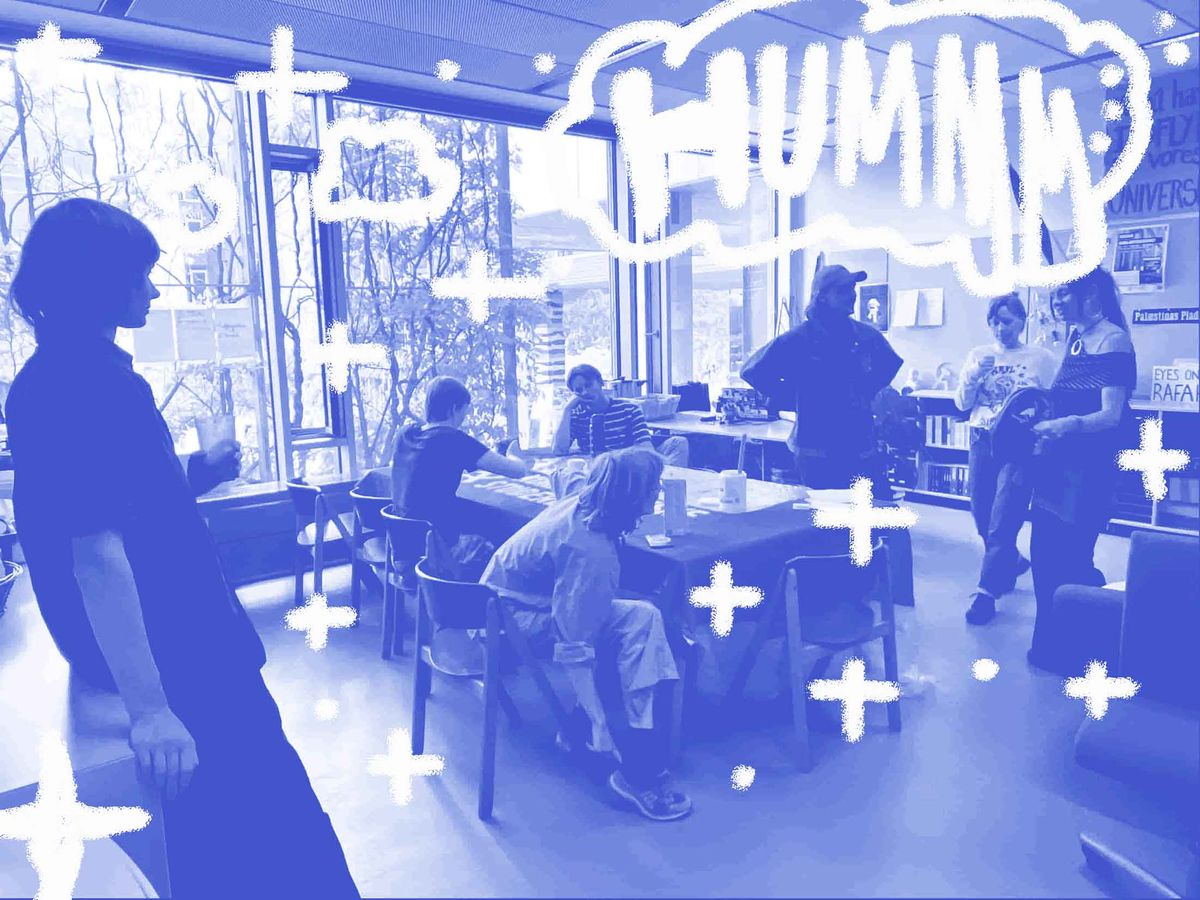
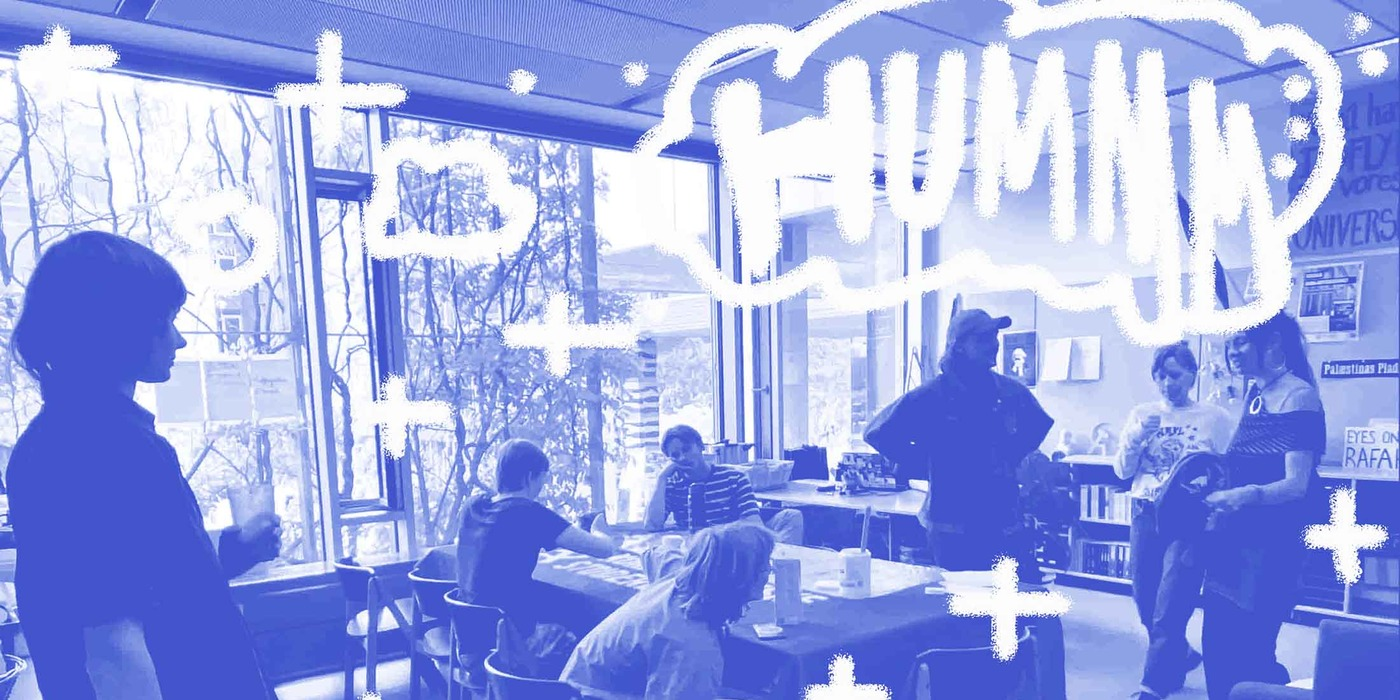
feat: kalender og booking øverst på forsiden, ombytning og beskæring af billeder, opdateret forsidestruktur

diff --git a/index.html b/index.html
@@ -11,7 +11,7 @@
   <header>
     <div class="header-inner">
       <h1>HUM-lokalet</h1>
-      <p class="tagline">Fælles studenter- og foreningslokale i Bygning 11A (lokale 11A-1-05) på KUA</p>
+      <p class="tagline">Bygning 11A-1-05 · Søndre Campus (KUA)</p>
     </div>
     <nav>
       <a href="/" class="active">Forside</a>
@@ -25,48 +25,17 @@
   </header>
 
   <main>
-    <!-- Gul driftsboks til hverdagsbeskeder -->
+    <!-- Driftsstatus for efterårssemesteret 2026 -->
     <div class="notice-box">
       <h3>Driftsstatus for efterårssemesteret 2026:</h3>
-      <p><strong>Faste aftener:</strong> Mandag til torsdag kl. 18.00–20.00 er lokalet optaget af faste foreningsmøder (fordelt på semestermødet). Alt andet tid kan bookes frit ad hoc.</p>
-      <p><strong>Køleskabet:</strong> Det er desværre gået i stykker igen... Vi har meldt det til driften, og der arbejdes på en løsning, men lad være med at stille mælk eller mad derind lige nu!</p>
+      <p><strong>Flere faste tider:</strong> Mandag til torsdag efter kl. 12:00 er åbent for faste foreningsmøder. Book også ad hoc herunder.</p>
+      <p><strong>Nyt køleskab:</strong> Desværre stadig i stykker - stil ikke mad ind. Campus Service må ikke hjælpe, men der er indsamlet til nyt kølefrys d. 2/7!</p>
     </div>
 
-    <section>
-      <h2>Hvad er HUM-lokalet?</h2>
-      <p>Kort sagt: Det er et fælles forenings- og mødelokale for aktive studerende, faggrupper og studenterforeninger på Det Humanistiske Fakultet. Lokalet drives 100% frivilligt af os studerende igennem et åbent brugerråd (HUM-lokaleudvalget).</p>
-      <p>Her kan din forening holde ugentlige møder, I kan lave bannere, holde læsegruppe inden eksamen eller bare brygge en kande kaffe og ordne dagsordener. Vi prøver at holde bureaukratiet nede på et absolut minimum, så længe alle rydder op efter sig selv og overholder de få, faste regler vi har aftalt.</p>
-    </section>
-
-    <!-- Billede fra lokalet -->
-    <figure class="featured-image">
-      <img src="/img/uploads/img02.jpg" alt="Arbejdsdag fra øverst til nederst.">
-      <figcaption>Arbejdsdag fra øverst til nederst.</figcaption>
-    </figure>
-
-    <section class="boxes-grid">
-      <div class="box">
-        <h3>Pladser & Møbler</h3>
-        <p>Der er ca. 20 siddepladser med borde og klapstole der kan flyttes rundt. Derudover to faste skriveborde (som folk bedes holde ryddet, så andre kan sidde der!).</p>
-      </div>
-      <div class="box">
-        <h3>Kaffe & Te</h3>
-        <p>2 kaffemaskiner og store termokander. Fælles kopper i skabet – men husk at vaske op efter dig selv, der er ingen rengøringsdame til kopperne.</p>
-      </div>
-      <div class="box">
-        <h3>Skærm & Tavle</h3>
-        <p>Præsentationsskærm med HDMI-stik til bærbar, samt et stort whiteboard på væggen (husk lige at efterlade et hjørne til faste beskeder og ugeplanen).</p>
-      </div>
-      <div class="box">
-        <h3>Skabsplads & Depot</h3>
-        <p>10 hylde- og skuffemeter. Noget er reserveret fast til HUM-rådet, og resten fordeles mellem aktive foreninger ved hver semesterstart.</p>
-      </div>
-    </section>
-
-    <!-- Konkret Google Kalender direkte på forsiden -->
+    <!-- Bookingkalenderen og funktionaliteten øverst -->
     <section class="calendar-section">
       <h2>Lokalekalender</h2>
-      <p>Her kan du se hvad der er booket i HUM-lokalet lige nu (faste aftentildelinger mandag–torsdag kl. 18–20 samt godkendte ad hoc-aktiviteter):</p>
+      <p>Her kan du se hvad der er booket i HUM-lokalet lige nu. Lokalet er forbeholdt faste foreningsaktiviteter, der kun vanskeligt kan bookes gennem campusservice – se <a href="/booking/">booking-FAQ og retningslinjer</a>.</p>
       
       <div class="calendar-wrapper">
         <iframe src="https://calendar.google.com/calendar/embed?height=600&wkst=2&ctz=Europe%2FCopenhagen&mode=WEEK&hl=da&title=HUM-lokalet&showTz=0&src=aHVtLmxva2FsZXVkdmFsZ0BnbWFpbC5jb20&src=ZGEuZGFuaXNoI2hvbGlkYXlAZ3JvdXAudi5jYWxlbmRhci5nb29nbGUuY29t&color=%23039be5&color=%230b8043" style="border-width:0" width="100%" height="600" frameborder="0" scrolling="no"></iframe>
@@ -75,14 +44,44 @@
       <p style="margin-top: 0.75rem;">
         <a href="https://calendar.google.com/calendar/u/0/appointments/schedules/AcZssZ1jp3ZjY6BK1qRwQJN4Qnzq2nO0DYPLTbCI2lCjQk_NJo_hct2kS0A90FhZgQ5IJQJiPuyJhNTt?gv=true" target="_blank" rel="noopener" class="btn">Book ledig ad hoc-tid i lokalet →</a>
         <a href="/booking/" class="btn" style="background: var(--dark-blue); margin-left: 0.5rem;">Læs regler & retningslinjer →</a>
-        <a href="/faste-moeder.ics" class="btn" style="background: transparent; color: var(--primary-blue); border: 1px solid var(--border-blue); margin-left: 0.5rem;">Hent faste møder (.ics) ↓</a>
       </p>
+    </section>
+
+    <section>
+      <h2>Hvad er HUM-lokalet?</h2>
+      <p>Fælles forenings- og mødelokale for aktive studerende, faggrupper og studenterforeninger på Det Humanistiske Fakultet. Lokalet drives 100% frivilligt og selvstyrende åbent brugerråd (<a href="/om/">HUM-lokaleudvalget</a>) under KUs foreningsbestemmelser. Bliv aktiv og hjælp dig og din naboforening: Duk op til et <a href="/moeder/">mandagsmøde</a>, en arbejdsdag eller når vi åbner <a href="/booking/">HUM-minibaren</a> for alle.</p>
+      <p>Her kan din forening holde møder, lave bannere og lave foreningsarbejde i gode rammer. HUM-lokalet <a href="/booking/">bookes let</a> og helt uden Campus Service. Vi holder bureaukrati og bookingbesvær på et minimum og alle er velkomne, der overholder <a href="/husorden/">husordenen</a>.</p>
+    </section>
+
+    <!-- Det blå billede fra lokalet (croppet 1/3 i bunden) -->
+    <figure class="featured-image">
+      <img src="/img/uploads/img03-hmmm.jpg" alt="Møde, kaffe og fællesskab i HUM-lokalet">
+      <figcaption>HUMMM: Foreningsliv, bannerproduktion og møde i HUM-lokalet (11A-1-05).</figcaption>
+    </figure>
+
+    <section class="boxes-grid">
+      <div class="box">
+        <h3>Pladser & Møbler</h3>
+        <p>Der er ca. 15 siddepladser med borde og klapstole der kan flyttes rundt. Derudover to faste skriveborde (som folk bedes holde ryddet jf. <a href="/husorden/">husordenen</a>, så andre kan sidde der!).</p>
+      </div>
+      <div class="box">
+        <h3>Kaffe & Te</h3>
+        <p>2 kaffemaskiner og store termokander. Der er fælles service på samme skabsrække – men husk opvasken - et vigtigt punkt på dagsordenen (se <a href="/husorden/">husordenen</a>).</p>
+      </div>
+      <div class="box">
+        <h3>Tavle og skriv</h3>
+        <p>Stort whiteboard på væggen - efterlad et hjørne til beskeder og ugeplanen.</p>
+      </div>
+      <div class="box">
+        <h3>Skabsplads & Depot</h3>
+        <p>10 hylde- og skuffemeter. Noget er reserveret fast til HUM-rådet, og resten fordeles mellem aktive foreninger ved hver semesterstart (se <a href="/om/">inventarlisten</a>).</p>
+      </div>
     </section>
 
     <section class="meeting-callout">
       <h3>Vær med til næste mandagsmøde</h3>
-      <p>Vi mødes den <strong>første mandag i hver måned fra kl. 16.30 til 17.30</strong> i lokalet (11A-1-05). Her vender vi alt fra skuffeplads og kaffekasse til nye ønsker og ad hoc-tider.</p>
-      <p>Næste gang er <strong>mandag d. 7. december 2026 kl. 16.30</strong>. Alle studerende på HUM er velkomne til at kigge forbi.</p>
+      <p>Vi mødes den <strong>første mandag i hver måned fra kl. 16.30 til 17.30</strong> i lokalet (11A-1-05). Her vender vi alt fra skuffeplads og kaffekasse til nye ønsker og tider.</p>
+      <p>Næste gang er <strong>mandag d. 7. december 2026 kl. 16.30</strong>. Alle studerende er velkomne.</p>
       <p><a href="/moeder/">Se dagsorden og gamle referater her →</a></p>
     </section>
   </main>

diff --git a/om/index.html b/om/index.html
@@ -28,10 +28,10 @@
     <h2>Hvem styrer lokalet? (Demokrati & Flad struktur)</h2>
     <p>HUM-lokaleudvalget er ikke en lukket klub eller en tung institutionel bestyrelse. Det er et åbent brugerråd for alle foreninger, fagråd og aktive studerende på Det Humanistiske Fakultet der bruger rummet.</p>
 
-    <!-- Det blå billede fra img/raw/img03-hmmm.jpg -->
+    <!-- Billedet fra arbejdsdagen -->
     <figure class="featured-image">
-      <img src="/img/uploads/img03-hmmm.jpg" alt="Møde, kaffe og fællesskab i HUM-lokalet (11A-1-05)">
-      <figcaption>HUMMM: Fællesmøde, bannerproduktion og foreningsliv i HUM-lokalet (11A-1-05).</figcaption>
+      <img src="/img/uploads/img02.jpg" alt="Arbejdsdag fra øverst til nederst.">
+      <figcaption>Arbejdsdag fra øverst til nederst.</figcaption>
     </figure>
 
     <p>Strukturen er helt flad:</p>
@@ -61,7 +61,7 @@
       <tbody>
         <tr>
           <td><strong>Siddepladser</strong></td>
-          <td>Ca. 20 stole + borde</td>
+          <td>Ca. 15 stole + borde</td>
           <td>Der er klapborde og stole så man kan lave hestesko, biografopstilling eller hvad I nu skal bruge. Stil det på plads bagefter.</td>
         </tr>
         <tr>
